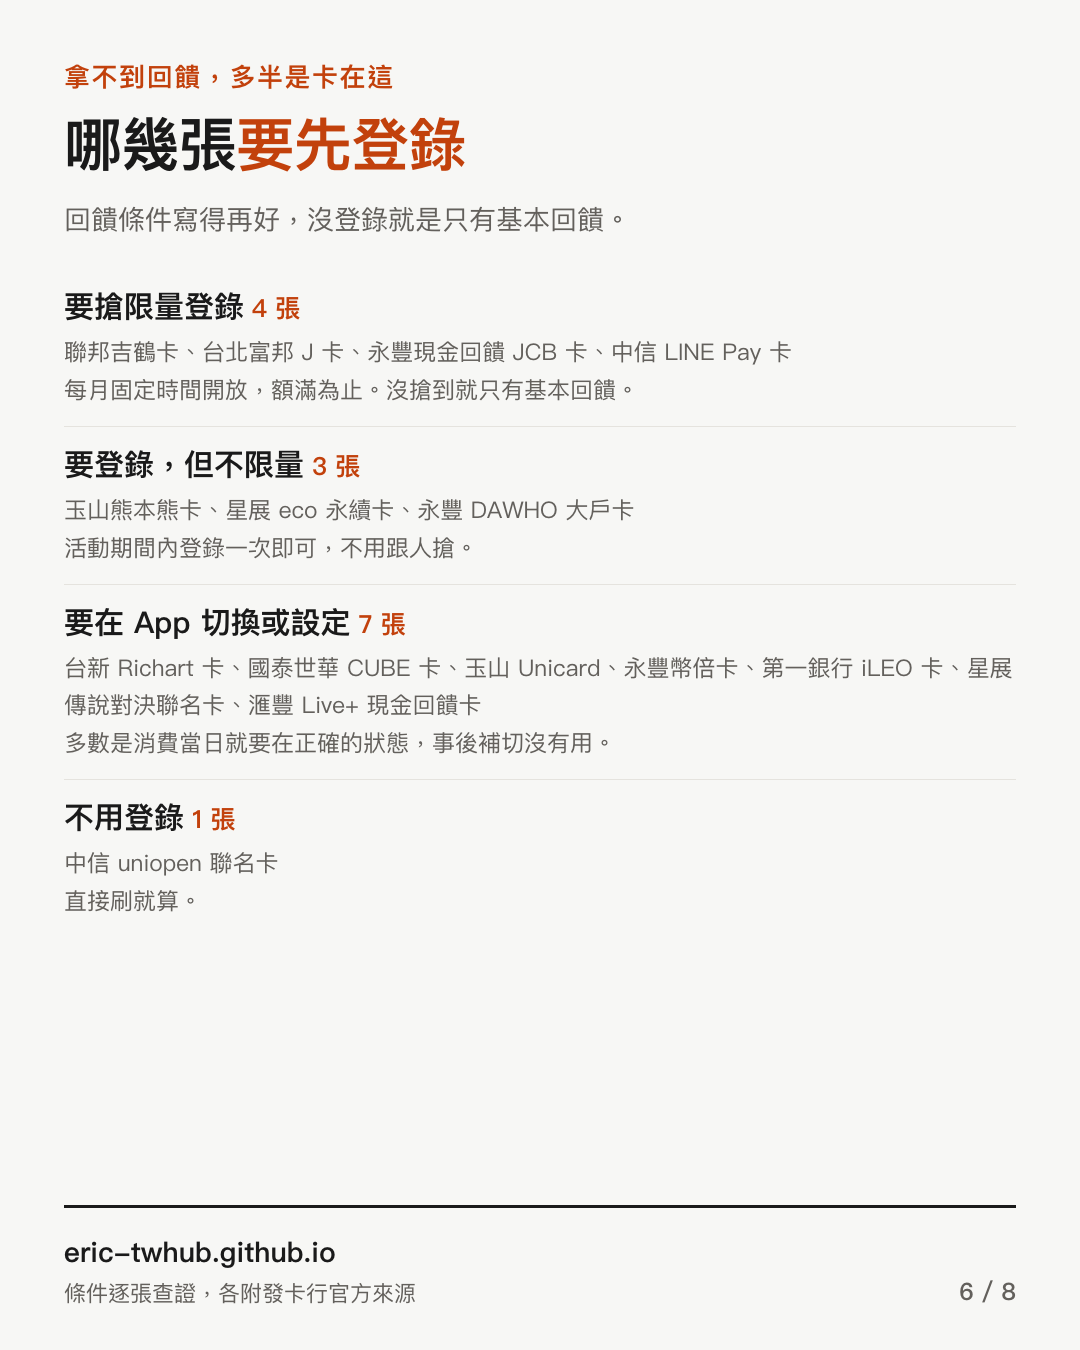
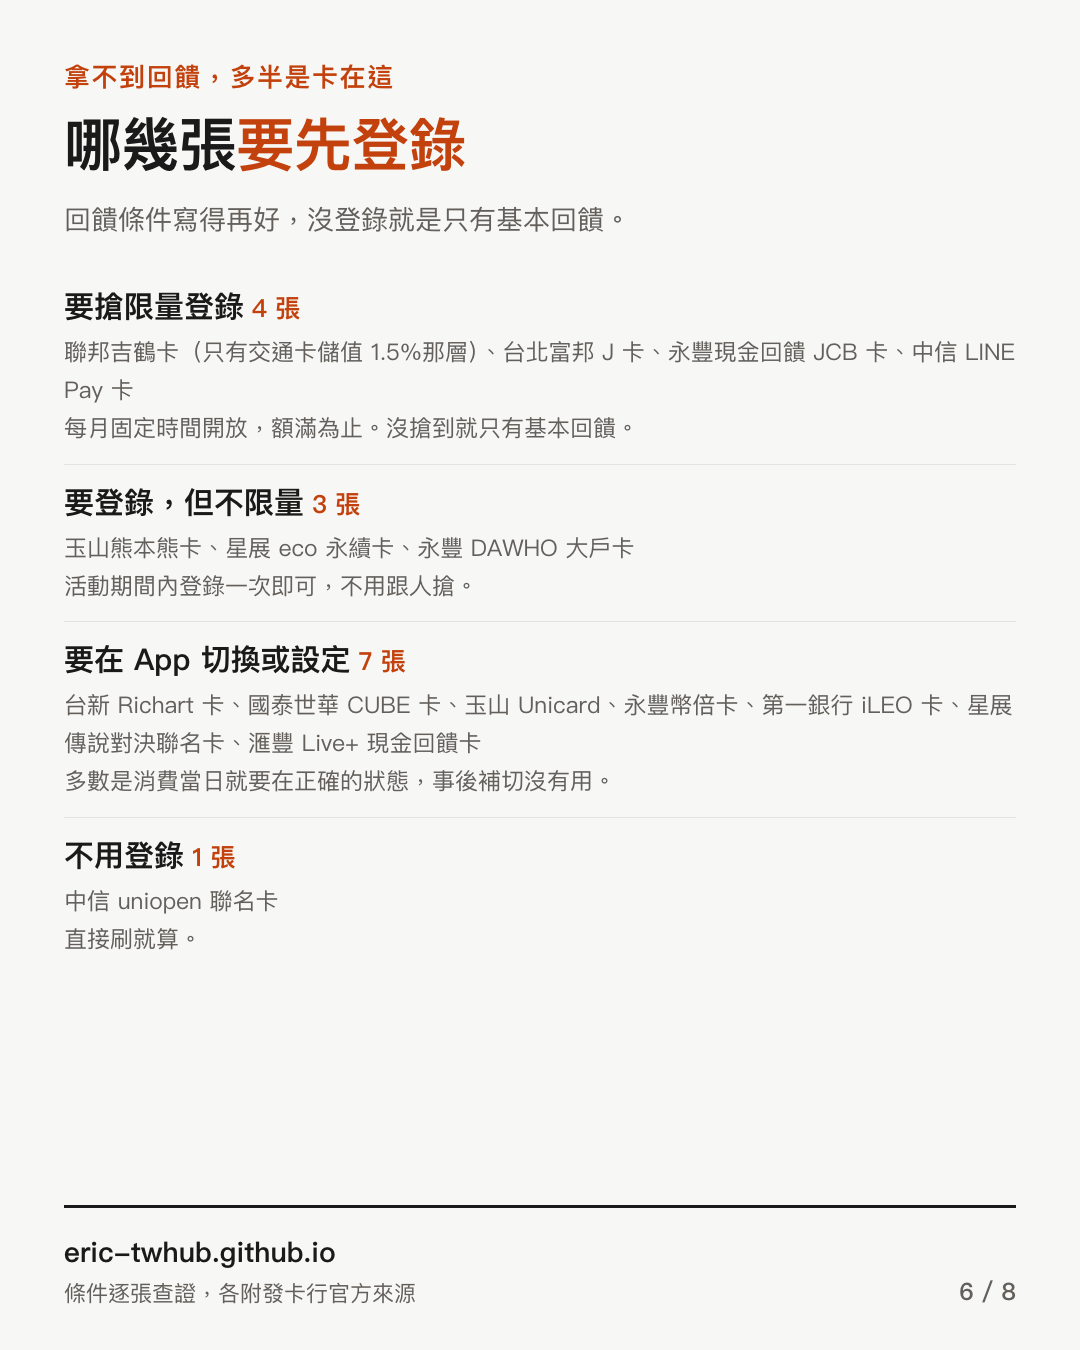
吉鶴卡交通卡儲值：1.5% 不疊基本回饋，原本算成 4%
官方注意事項第 5 點寫明「日本交通卡儲值非屬一般消費，不提供日幣消費
2.5% 回饋」，但我們的算式無條件把 base 加上去，變成 1.5+2.5=4%，
正好是官方否定的那個算法。圖卡上的儲值排行也因此把吉鶴卡排在第 4。

加 tier 層級的 no_base 旗標，頁面與圖卡兩邊的算式都讀它。
圖卡第 6 張另外標出吉鶴卡只有交通卡那層要搶登錄，不是整張卡。

diff --git a/make_creditcard_cards.py b/make_creditcard_cards.py
@@ -29,8 +29,10 @@ NEW = re.compile(r'新戶|核卡')
 
 def fingerprint(CD):
     """圖卡真正用到的欄位的指紋。用途同 make_picks_cards.fingerprint。"""
-    pay = [[c.get(k) for k in ('name', 'plan', 'base', 'total', 'reg_level')]
-           + [[t['label'], t['rate'], t['cap'], t['scope'], t.get('cond', '')]
+    pay = [[c.get(k) for k in ('name', 'plan', 'base', 'total', 'reg_level',
+                               'reg_monthly')]
+           + [[t['label'], t['rate'], t['cap'], t['scope'], t.get('cond', ''),
+               t.get('no_base')]
               for t in c['tiers']]
            for c in CD['cards']]
     pay.append([CD['fx_fee']['typical'], CD['checked']])
@@ -142,9 +144,11 @@ def make_math(CD, mid, fee):
 
     def back(c, jpy, scope='shop', newbie=True):
         b = bill(jpy)
-        v = c['base'] / 100 * b
+        ts = tiers(c, scope, newbie)
+        # 標了 no_base 的加碼層不疊基本回饋（例如交通卡儲值不算一般消費）
+        v = 0 if any(t.get('no_base') for t in ts) else c['base'] / 100 * b
         capped = False
-        for t in tiers(c, scope, newbie):
+        for t in ts:
             x = t['rate'] / 100 * b
             if t['cap'] and x > t['cap']:
                 x = t['cap']
@@ -153,7 +157,9 @@ def make_math(CD, mid, fee):
         return v, capped
 
     def maxrate(c, scope='shop', newbie=True):
-        return round(c['base'] + sum(t['rate'] for t in tiers(c, scope, newbie)), 2)
+        ts = tiers(c, scope, newbie)
+        base = 0 if any(t.get('no_base') for t in ts) else c['base']
+        return round(base + sum(t['rate'] for t in ts), 2)
 
     def hit(c, scope='shop'):
         ts = [t for t in tiers(c, scope) if t['cap']]
@@ -271,7 +277,10 @@ def build(CD, mid, fee, rate_note):
           ('none', '不用登錄', '直接刷就算。')]
     rows = ''
     for k, lab, why in LV:
-        ns = [c['name'] for c in cards if c.get('reg_level') == k]
+        # 有 reg_monthly 的卡是「只有某一層要搶」，不是整張卡都要搶，標出來
+        ns = [c['name'] + ('（只有' + c['reg_monthly']['what'] + '那層）'
+                           if k == 'race' and c.get('reg_monthly') else '')
+              for c in cards if c.get('reg_level') == k]
         if not ns:
             continue
         rows += ('<div class="grp">'

diff --git a/gen.py b/gen.py
@@ -11419,10 +11419,12 @@ if os.path.exists('cards.json'):
     def _back(c, jpy, mode='shop'):
         """回饋金額。base 模式只算基本回饋，其餘加上該類型的各層加碼（各自受上限）。"""
         b = _bill(jpy)
-        v = c['base'] / 100 * b
+        ts = [] if mode == 'base' else _tiers(c, mode)
+        # 標了 no_base 的加碼層不疊基本回饋（例如交通卡儲值不算一般消費）
+        v = 0 if any(t.get('no_base') for t in ts) else c['base'] / 100 * b
         capped = False
         if mode != 'base':
-            for t in _tiers(c, mode):
+            for t in ts:
                 x = t['rate'] / 100 * b
                 if t['cap'] and x > t['cap']:
                     x = t['cap']; capped = True
@@ -11430,7 +11432,11 @@ if os.path.exists('cards.json'):
         return v, capped
 
     def _maxrate(c, mode):
-        return c['base'] + (0 if mode == 'base' else sum(t['rate'] for t in _tiers(c, mode)))
+        if mode == 'base':
+            return c['base']
+        ts = _tiers(c, mode)
+        base = 0 if any(t.get('no_base') for t in ts) else c['base']
+        return base + sum(t['rate'] for t in ts)
 
     # 有幾張卡的帳面數字把「新戶加碼」也算進去了，那是核卡後一段期間內的一次性優惠。
     # 已經持卡的人看到的其實是另一個數字，所以另外算一欄。
